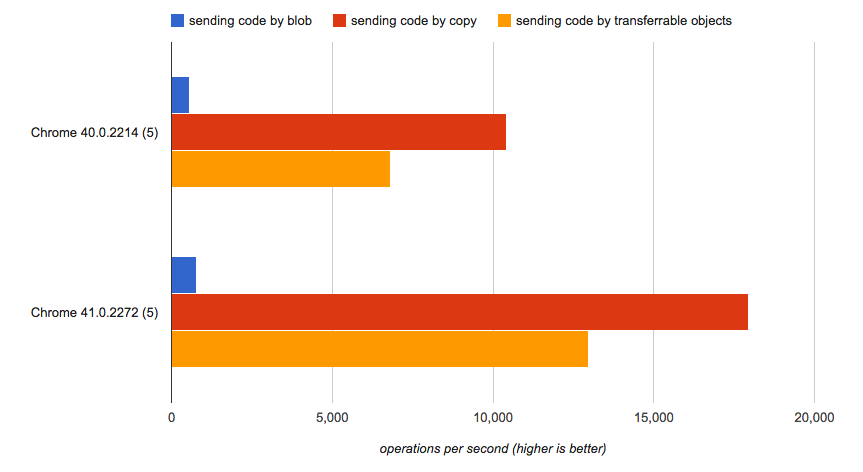
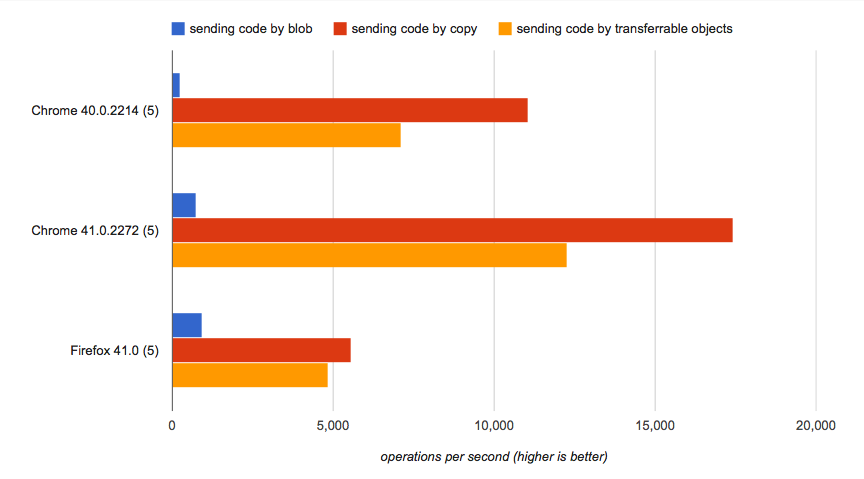
updates test and result image.

diff --git a/spikes/2.2.1/test-howToSendCode/shortSerialization.js b/spikes/2.2.1/test-howToSendCode/shortSerialization.js
@@ -1,4 +1,4 @@
-// http://jsperf.com/pjs-serialization/3
+// http://jsperf.com/pjs-serialization/5
 
 // HTML setup
 <script>
